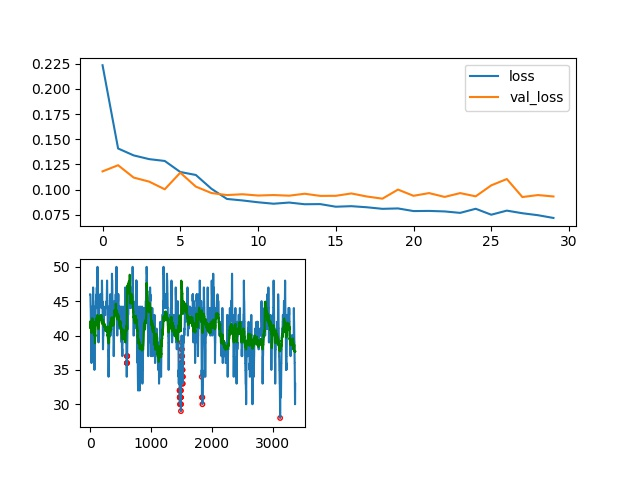
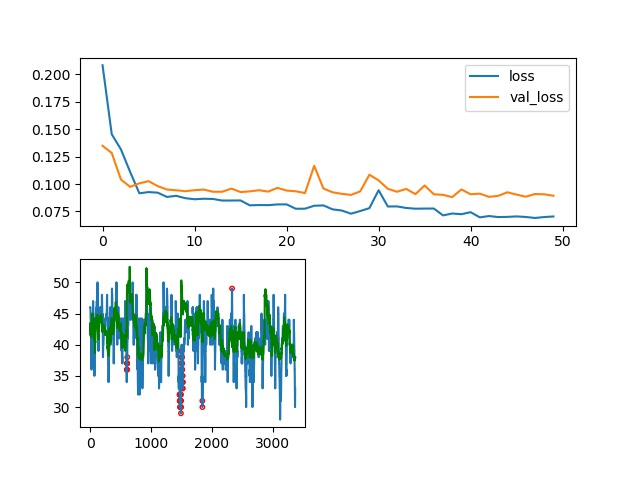
ED调参暂存

diff --git a/lstm_Demo/main.py b/lstm_Demo/main.py
@@ -254,25 +254,27 @@ class LSTM_Demo:
         # 设计网络
         # lstm输入形状[batch_size, time_step, input_size]
         x = Input(shape=(train_X.shape[1], train_X.shape[2]))
-        lstm_out = LSTM(200, return_sequences=True, activation='relu')(x)
+        lstm_out = LSTM(400, return_sequences=True, activation='relu')(x)
         # repeat_layer = Lambda(lambda x: K.repeat_elements(x[:, None, :], train_y.shape[1], axis=1))(lstm_out)
         #
         # lstm_out = Dropout(0.3)(repeat_layer)
 
+        lstm_out = Dropout(0.4)(lstm_out)
 
         lstm_out = attention_3d_block(lstm_out, self.n_hours, single_attention_vector=False)
 
-        # lstm_out = Dropout(0.3)(lstm_out)
-        lstm_out = LSTM(200, return_sequences=True)(lstm_out)
+        # lstm_out = Dropout(0.4)(lstm_out)
+        # lstm_out = LSTM(40, return_sequences=True)(lstm_out)
 
 
         # 添加残差网络块
         # self.model.add(ResidualBlock(LSTM(160, return_sequences=True)))
 
-        lstm_out = LSTM(200,activation='relu',  return_sequences=False)(lstm_out)
+        lstm_out = LSTM(320,activation='relu',  return_sequences=False)(lstm_out)
         lstm_out = Lambda(lambda x: K.repeat_elements(x[:, None, :], train_y.shape[1], axis=1))(lstm_out)
 
-        lstm_out = TimeDistributed(Dense(40, activation='relu'))(lstm_out)
+        lstm_out = TimeDistributed(Dense(200, activation='relu'))(lstm_out)
+        # lstm_out = Dropout(0.3)(lstm_out)
 
         outputs = TimeDistributed(Dense(self.n_features))(lstm_out)
         self.model = Model(x, outputs)
@@ -280,7 +282,7 @@ class LSTM_Demo:
         print(self.model.summary())
         self.n_batch=256
         # fit network
-        self.history = self.model.fit(train_X, train_y, epochs=30, batch_size=self.n_batch, verbose=1,
+        self.history = self.model.fit(train_X, train_y, epochs=50, batch_size=self.n_batch, verbose=1,
                                       validation_data=(test_X, test_y), shuffle=False)
         print(self.history.history)
         print(self.history.history['loss'])
